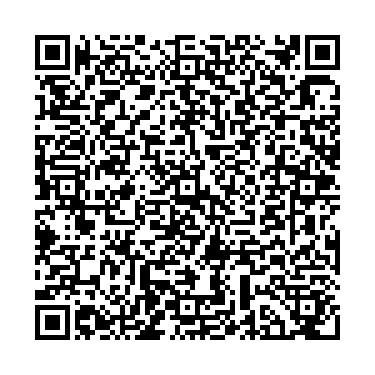
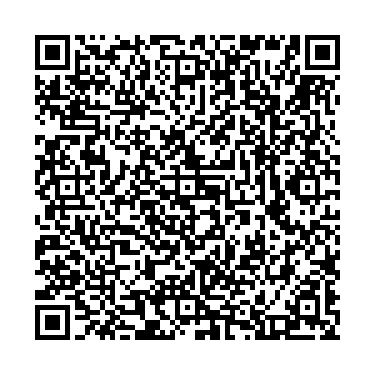
qr-server-update

Changed region(s): [[0.088, 0.088, 0.9093, 0.9093]]

diff --git a/dashboard/js/dashboard.js b/dashboard/js/dashboard.js
@@ -1,38 +1,41 @@
 document.addEventListener('DOMContentLoaded', () => {
+
     const showQR = document.querySelector(".showQR");
 
-    // Establecer conexión con el servidor Socket.io
-    const socket = io(); // Asegúrate de tener Socket.io configurado en tu frontend
-
-    console.log("Conexión establecida con el servidor WebSocket");
-
-    // Escuchar el evento 'qr-generated' desde el servidor
-    socket.on('qr-generated', (data) => {
-        console.log("Evento 'qr-generated' recibido:", data); // Verifica si se recibe la información correcta
-
-        // Verificar que el campo `qrFilePath` existe
-        if (data && data.qrFilePath) {
-            console.log("Ruta del archivo QR:", data.qrFilePath); // Imprimir la ruta del archivo QR
-
-            showQR.addEventListener('click', () => {
-                Swal.fire({
-                    title: 'Código QR',
-                    text: 'Este es el código QR generado.',
-                    icon: 'info',
-                    html: `
-                        <img src="${data.qrFilePath}" alt="QR Code" style="max-width: 100%; height: auto;" />
-                    `,
-                    confirmButtonText: 'Entendido'
-                });
-            });
-        } else {
-            console.error("No se ha recibido la ruta del archivo QR desde el servidor");
-        }
+    showQR.addEventListener('click', () => {
+        Swal.fire({
+            title: 'Código QR',
+            text: 'Este es un ejemplo de alerta usando SweetAlert2.',
+            icon: 'info',
+            html: `
+            <img id="qr-img" src="/qr.png" />
+            `,
+            confirmButtonText: 'Entendido'
+        });
     });
 
-    // Opcional: Verifica si el servidor está enviando datos
-    socket.on('connect_error', (err) => {
-        console.error("Error de conexión con WebSocket:", err);
+    // Aquí escuchas el evento de Socket.IO para actualizar la imagen cuando el servidor emite el evento 'qr-updated'
+    const socket = io(); // Asumiendo que tu servidor ya está emitiendo eventos
+
+    socket.on('qr-updated', () => {
+        const qrImg = document.getElementById('qr-img');
+
+        qrImg.src = "/qr.png";
     });
+
+    socket.on('conectado-front', () => {
+        const conectadoContainer = document.querySelector('.conectado-container');
+        conectadoContainer.innerHTML = '<p>Conectado</p>';
+
+    });
+
+    socket.on('desconectado-front', () => {
+        const conectadoContainer = document.querySelector('.conectado-container');
+        conectadoContainer.innerHTML = '<p>Desconectado</p>';
+    });
+
+
+
+
 
 });

diff --git a/app.js b/app.js
@@ -3,7 +3,7 @@
 const { createBot, createProvider, createFlow, addKeyword, } = require('@bot-whatsapp/bot')
 const QRPortalWeb = require('./myLibs/@bot-whatsapp/portal/lib/portal.http.cjs')
 // const QRPortalWeb = require('@bot-whatsapp/portal')
-const BaileysProvider = require('@bot-whatsapp/provider/baileys')
+const BaileysProvider = require('./myLibs/@bot-whatsapp/provider/lib/baileys/index.cjs')
 const JsonFileAdapter = require('@bot-whatsapp/database/json')
 
 ////
